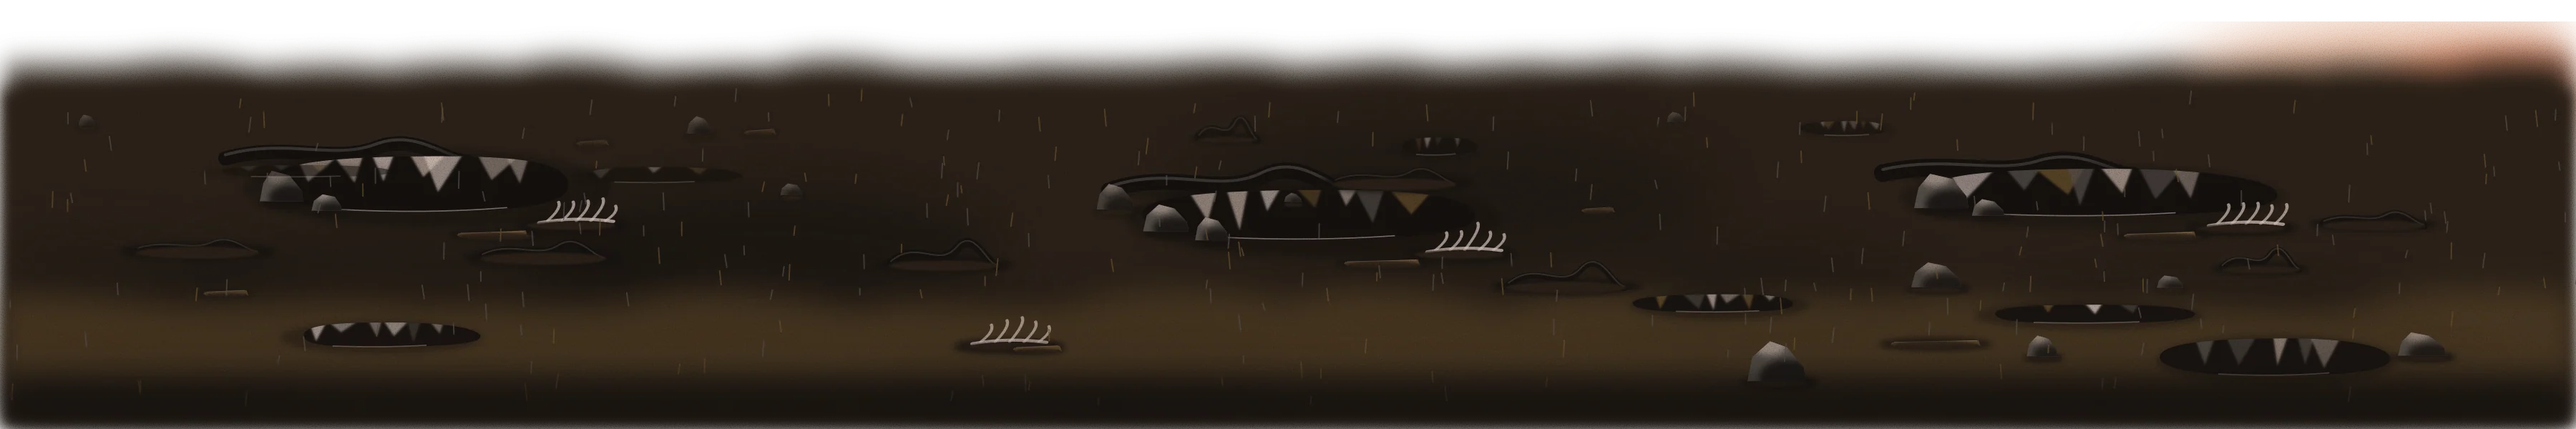
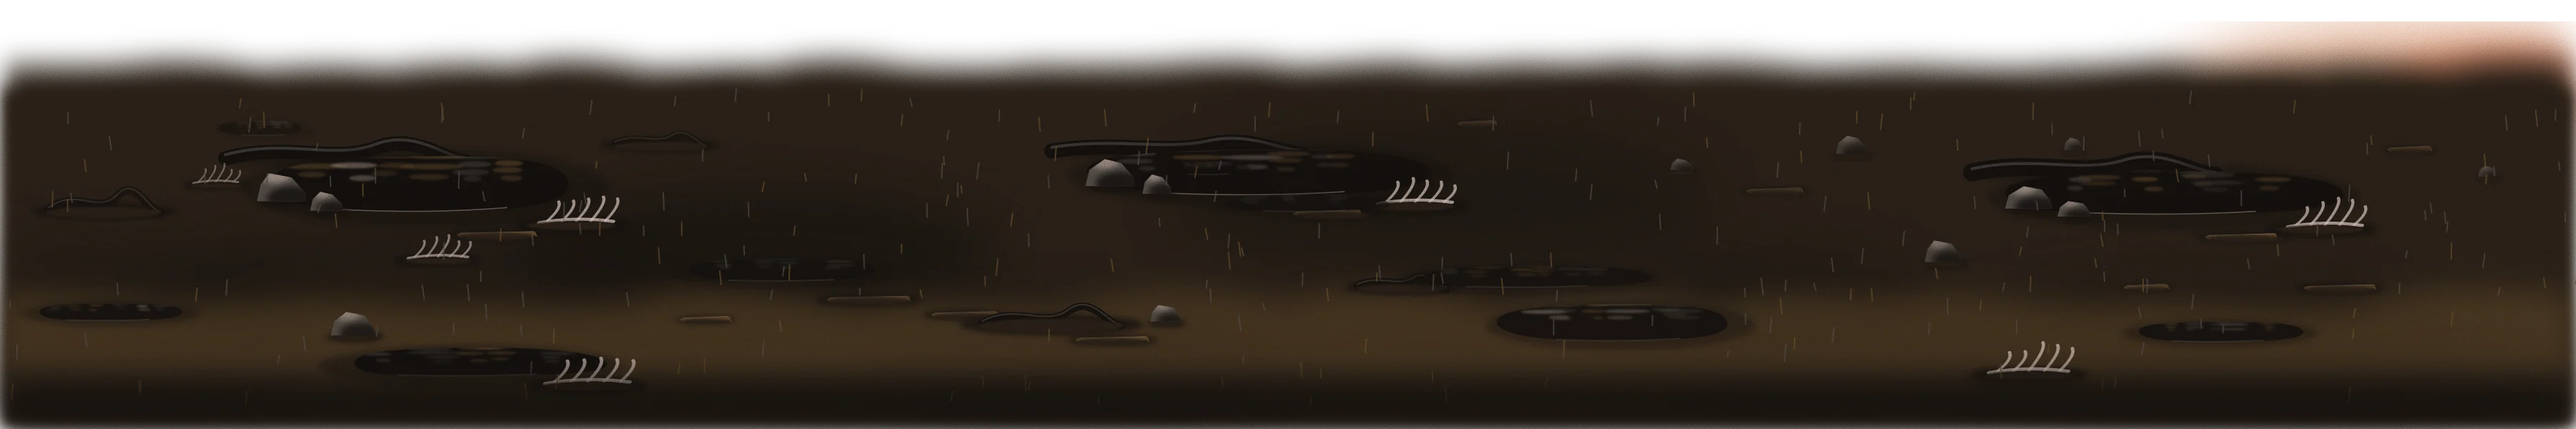
Bestiario: el charco refleja roto y el redondel del bicho que habla es de tiza (D-90, ronda 5)
Los reflejos de los charcos del monte dejan de ser triangulos en fila: manchas acostadas, mas oscuras y cortas, contra el canto. El aro punteado amarillo pasa a una vuelta de tiza irregular; el foco del teclado, la misma vuelta en el oro del foco y mas gruesa.

diff --git a/src/lib/bestiario/arte-suelo.ts b/src/lib/bestiario/arte-suelo.ts
@@ -47,8 +47,20 @@ function charco(id: string, x: number, y: number, rx: number, ry: number, rnd: A
     const o = 0.5 + rnd() * 0.35;
     // En el monte se reflejan las puntas de las tiras; donde lo que hay atrás son luces, rayas finas
     // que bajan temblando, como se ve un farol en el agua.
-    if (como === 'puntas') adentro += soplo(`M${f(lx - ancho)} ${f(y - ry * 1.2)} L${f(lx + ancho)} ${f(y - ry * 1.2)} L${f(lx + corre)} ${f(y - ry * 1.2 + largo)} Z`, color, 'xs', o);
-    else {
+    if (como === 'puntas') {
+      // El reflejo de una tira (`D-90`, quinta ronda): **roto**. Antes era un triángulo limpio de punta
+      // abajo, y varios en fila eran una guirnalda de cumpleaños. El agua no devuelve la forma: devuelve
+      // pedazos. Tres o cuatro manchas acostadas, cada vez más angostas y más corridas, que arrancan
+      // contra el canto de atrás (ahí las corta la máscara) y no llegan a la mitad del charco.
+      const pedazos = 3 + Math.floor(rnd() * 2);
+      for (let k = 0; k < pedazos; k++) {
+        const u = k / pedazos;
+        const w = ancho * (1.5 - u * 1.15) * (0.7 + rnd() * 0.5);
+        const yy = y - ry * 1.05 + u * Math.min(largo, ry * 1.25) + (rnd() - 0.5) * ry * 0.12;
+        const xx = lx + corre * u + (rnd() - 0.5) * ancho * 0.9;
+        adentro += nube(xx, yy, Math.max(1.6, w), Math.max(0.9, ry * 0.11), color, 'xs', o * (0.75 - u * 0.4));
+      }
+    } else {
       for (let k = 0; k < 4; k++) {
         const yy = y - ry * 0.8 + k * ry * 0.42;
         adentro += trazo(`M${f(lx - ancho * (0.9 - k * 0.15) + (rnd() - 0.5) * 2)} ${f(yy)} l${f(ancho * (1.8 - k * 0.3))} 0`, color, Math.max(0.9, ry * 0.16), o * (1 - k * 0.18));
@@ -147,7 +159,7 @@ function claroDelMonte(id: string, x: number, y: number, rnd: Azar): string {
   const ry = 20 + rnd() * 6;
   return (
     raiz(x - rx * 1.25, y - ry * 0.9, rx * 1.5, rnd, 2.1) +
-    charco(`${id}-ch`, x, y, rx, ry, rnd, M.negro, [M.hondo, M.medio, M.claro, M.medio, M.sombra], M.claro, 'puntas', 7) +
+    charco(`${id}-ch`, x, y, rx, ry, rnd, M.negro, [M.hondo, M.sombra, M.hondo, M.medio, M.sombra], M.medio, 'puntas', 6) +
     piedra(`${id}-p1`, x - rx * 0.9, y + ry * 0.7, 40 + rnd() * 12, rnd, M.hondo, M.medio, M.negro) +
     piedra(`${id}-p2`, x - rx * 0.62, y + ry * 1.05, 24 + rnd() * 8, rnd, M.hondo, M.medio, M.negro) +
     asentar(
@@ -174,7 +186,7 @@ export function sueloDelMonte(desde: number, hasta: number, semilla: number): st
     const que = rnd();
     // Cada cosa, apoyada: su mancha, la tierra que la tapa por abajo, y más apagada cuanto más lejos.
     const apoya = (dibujo: string, cx: number, w: number): string => asentar(dibujo, cx, y, w, hondura, M.oscuro, M.negro);
-    if (que < 0.24) s += `<g opacity="${f(0.55 + 0.45 * hondura)}">${charco(`sm-ch-${n}`, x, y, (38 + rnd() * 50) * escala, (6 + rnd() * 6) * escala, rnd, M.negro, [M.hondo, M.medio, M.claro, M.sombra], M.medio)}</g>`;
+    if (que < 0.24) s += `<g opacity="${f(0.55 + 0.45 * hondura)}">${charco(`sm-ch-${n}`, x, y, (38 + rnd() * 50) * escala, (6 + rnd() * 6) * escala, rnd, M.negro, [M.hondo, M.sombra, M.hondo, M.medio], M.hondo)}</g>`;
     else if (que < 0.46) {
       const largo = (50 + rnd() * 70) * escala;
       s += apoya(raiz(x, y, largo, rnd), x + largo / 2, largo);

diff --git a/src/styles/sitio.css b/src/styles/sitio.css
@@ -3748,11 +3748,30 @@ body:has(> .lugar) .marca-chica {
 .bestiario-marco[data-vista='lejos'] .bestiario-svg .bestias { pointer-events: none; }
 .bestiario-svg .bestia { cursor: pointer; outline: none; }
 .bestiario-svg .toque { fill: transparent; }
+/* El redondel del bicho que habla (`D-90`, quinta ronda): tiza. Era un aro punteado amarillo, parejo,
+   de interfaz. Ahora es una vuelta de tiza hecha a mano: del papel, con el trazo que se corta donde
+   la tiza salta (tramos largos y cortos, ninguno igual al otro), apenas ovalada y torcida, de punta
+   redonda. Sigue siendo una forma y no solo un color.
+   El foco del teclado es la misma vuelta, en el oro del foco de todo el sitio (`--acento-2`) y más
+   gruesa: tiene que verse siempre, y sobre la tinta del fondo pasa de largo el 3:1 que se le pide a
+   un indicador. Si el bicho habla y además tiene el foco, manda el foco. */
 .bestiario-svg .bestia:focus-visible .toque,
 .bestiario-svg .bestia--elegida .toque {
+  stroke: var(--papel);
+  stroke-width: 2.4;
+  stroke-linecap: round;
+  stroke-dasharray: 19 4 3 6 27 5 9 4 2 7 14 6;
+  stroke-opacity: 0.9;
+  transform-box: fill-box;
+  transform-origin: center;
+  transform: rotate(-9deg) scale(1.05, 0.95);
+}
+
+.bestiario-svg .bestia:focus-visible .toque {
   stroke: var(--acento-2);
-  stroke-width: 3;
-  stroke-dasharray: 6 4;
+  stroke-width: 3.4;
+  stroke-opacity: 1;
+  stroke-dasharray: 31 5 12 4 44 6;
 }
 .bestiario-svg .marca-anotada { display: none; }
 .bestiario-svg .bestia--anotada .marca-anotada { display: inline; }
@@ -4187,7 +4206,12 @@ body:has(> .lugar) .marca-chica {
 .titere { cursor: pointer; outline: none; }
 .titere--lobo { touch-action: manipulation; }
 .titere--cordero { cursor: grab; touch-action: none; }
-.titere:focus-visible { outline: 2px dashed var(--acento-2); }
+/* El foco de un títere: el oro del foco del sitio, entero y grueso, despegado del dibujo. Era una
+   raya punteada fina, pegada al borde. */
+.titere:focus-visible {
+  outline: 3px solid var(--acento-2);
+  outline-offset: 5px;
+}
 .soga--tensa { stroke-width: 3.2; }
 
 /* El bocadillo: lo que dice un bicho, con el mouse encima o solo (D-78). Papel, borde grueso, una punta abajo. */

diff --git a/src/lib/estilos.test.ts b/src/lib/estilos.test.ts
@@ -789,7 +789,7 @@ const ISLAS: Readonly<Record<string, Tablero | SinTablero>> = {
   },
 
   // `D-73`: el bestiario redondo, en la Redondopedia (`sitio.css`). Sus estados: la bestia que
-  // está hablando y las ya anotadas (las dos con forma: un aro punteado y un sello con tilde),
+  // está hablando y las ya anotadas (las dos con forma: una vuelta de tiza y un sello con tilde),
   // la fila del índice anotada, el botón que suena y la soga del cordero cuando está tensa.
   // La pastura (el lobo y el cordero) vive aparte desde la séptima vuelta, porque la comparte con
   // el camino con cruces: la soga tensa la crea ese módulo, y cuenta como de la isla.
